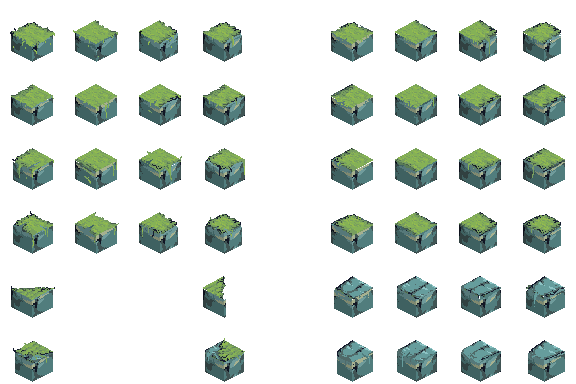
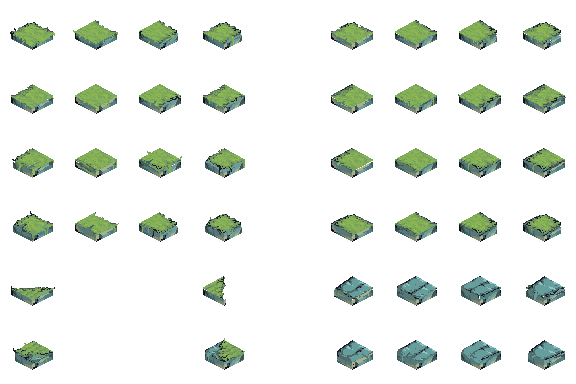
fix(terrain): la bande de rocher cuite sous les tuiles rognee a 6 px
Les feuilles etaient cuites avec 18 lignes de rocher sous chaque bloc, la
hauteur de palier d'avant : passees a 6, le rocher pendait 12 px sous la
cote. Pas de recuisson depuis art-source (les palettes ont ete retouchees a
la main depuis) : trim_iso_lift.py coupe la bande en place, colonne par
colonne sous l'arete du losange, et garde les 6 premieres lignes, qui sont
au pixel pres ce qu'une cuisson a 6 produit. Idempotent.

gen_iso_sheets.py passe a LIFT = 6 pour une prochaine cuisson, et
TERRAIN_REV monte a v3 pour que les navigateurs redemandent les feuilles.

diff --git a/src/game/island/tileset.ts b/src/game/island/tileset.ts
@@ -46,7 +46,9 @@ const UNITS = '/assets/units';
  * `${TERRAIN}` is rewritten in place; a browser that cached the old URL then
  * simply never asks for it again.
  */
-const TERRAIN_REV = '?v=2';
+// v3 (2026-09-18): the rock band under every block trimmed from 18 to 6 px,
+// the new `TIER_LIFT` — see `tools/trim_iso_lift.py`.
+const TERRAIN_REV = '?v=3';
 const terrain = (file: string) => `${TERRAIN}/${file}${TERRAIN_REV}`;
 
 export const ISLAND_SHEETS = {

diff --git a/tools/trim_iso_lift.py b/tools/trim_iso_lift.py
@@ -1,0 +1,75 @@
+#!/usr/bin/env python3
+"""
+Rogne la bande de rocher cuite sous chaque tuile a la hauteur du palier.
+
+`gen_iso_sheets.py` cuit un bloc par tuile : la face du dessus et, sous ses
+deux aretes basses, `LIFT` lignes de rocher. Les feuilles en jeu ont ete cuites
+a 18, puis retouchees a la main dans Aseprite — on ne peut donc pas les
+recuire depuis `art-source/` sans perdre les retouches. Quand `TIER_LIFT`
+baisse, ce script coupe la bande en place, ligne par ligne sous l'arete du
+losange, et garde les `lift` premieres : `rock_band` prend les `lift` lignes
+du HAUT de la face sans les reechantillonner verticalement, donc les 6
+premieres lignes d'une bande de 18 sont, au pixel pres, la bande de 6.
+
+Idempotent : une feuille deja rognee ressort identique.
+
+    python3 tools/trim_iso_lift.py [--lift 6] fichiers...
+"""
+from PIL import Image
+import sys
+
+TILE = 64
+DIAMOND_W = 44
+DIAMOND_H = 24
+# Ce que la bande cuite mesure au plus : au-dela, ce sont des pixels du dessus
+# de la cellule d'en dessous, qu'on ne touche pas.
+BAKED_LIFT = 18
+
+
+def edge_y(col: int) -> int:
+    """La ligne de l'arete basse du losange a cette colonne (geometrie de
+    `add_volume`, a l'identique)."""
+    oy = (TILE - DIAMOND_H) // 2
+    t = abs(col - DIAMOND_W / 2) / (DIAMOND_W / 2)
+    return oy + int((DIAMOND_H - 1) - t * (DIAMOND_H / 2 - 1))
+
+
+def trim(path: str, lift: int) -> int:
+    im = Image.open(path).convert("RGBA")
+    px = im.load()
+    ox = (TILE - DIAMOND_W) // 2
+    cleared = 0
+    for r in range(im.height // TILE):
+        for c in range(im.width // TILE):
+            for col in range(DIAMOND_W):
+                x = c * TILE + ox + col
+                ey = r * TILE + edge_y(col)
+                for dy in range(lift + 1, BAKED_LIFT + 1):
+                    y = ey + dy
+                    if y >= (r + 1) * TILE:
+                        break
+                    if px[x, y][3]:
+                        px[x, y] = (0, 0, 0, 0)
+                        cleared += 1
+    if path.endswith(".webp"):
+        im.save(path, "WEBP", lossless=True)
+    else:
+        im.save(path)
+    return cleared
+
+
+def main() -> None:
+    args = sys.argv[1:]
+    lift = 6
+    if "--lift" in args:
+        i = args.index("--lift")
+        lift = int(args[i + 1])
+        del args[i:i + 2]
+    if not args:
+        sys.exit(__doc__)
+    for p in args:
+        print(f"{p}: {trim(p, lift)} px rognes")
+
+
+if __name__ == "__main__":
+    main()

diff --git a/tools/gen_iso_sheets.py b/tools/gen_iso_sheets.py
@@ -118,14 +118,16 @@ def project_cell(cell: Image.Image, w: int, h: int, box: int = TILE) -> Image.Im
 # painted, and the artist is editing two files to see one object.
 #
 # So the block is baked. Each tile carries its top face and the two sides this
-# camera sees (south-west and south-east), `LIFT` pixels tall — the same 18 the
-# board lifts a tier by, which is what makes a stack of them close with no seam.
+# camera sees (south-west and south-east), `LIFT` pixels tall — the same 6 the
+# board lifts a tier by (`TIER_LIFT`), which is what makes a stack of them
+# close with no seam. The shipped sheets were baked at 18 and retouched by
+# hand since; `trim_iso_lift.py` is what cut them down to 6 in place.
 #
 # The sides are shaded from the top's own pixels rather than filled flat: a
 # column of rock lit like the grass above it reads as one object, and it keeps
 # whatever palette the tile is painted in without a second colour decision.
 # ---------------------------------------------------------------------------
-LIFT = 18
+LIFT = 6
 
 # Row of the elevation sheet holding the tall cliff face.
 FACE_SHEET_ROW = 3
